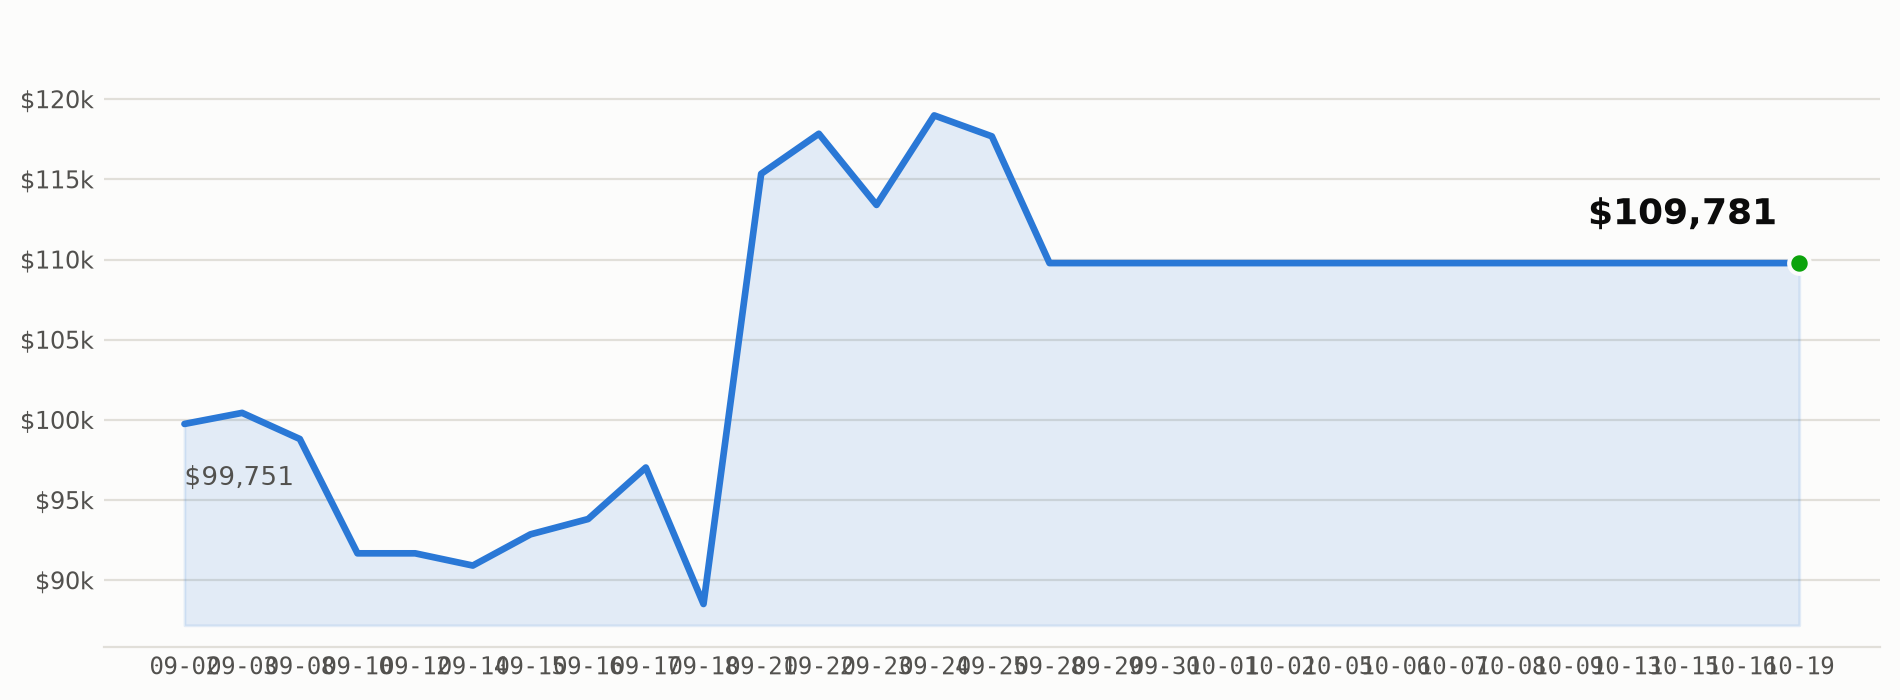
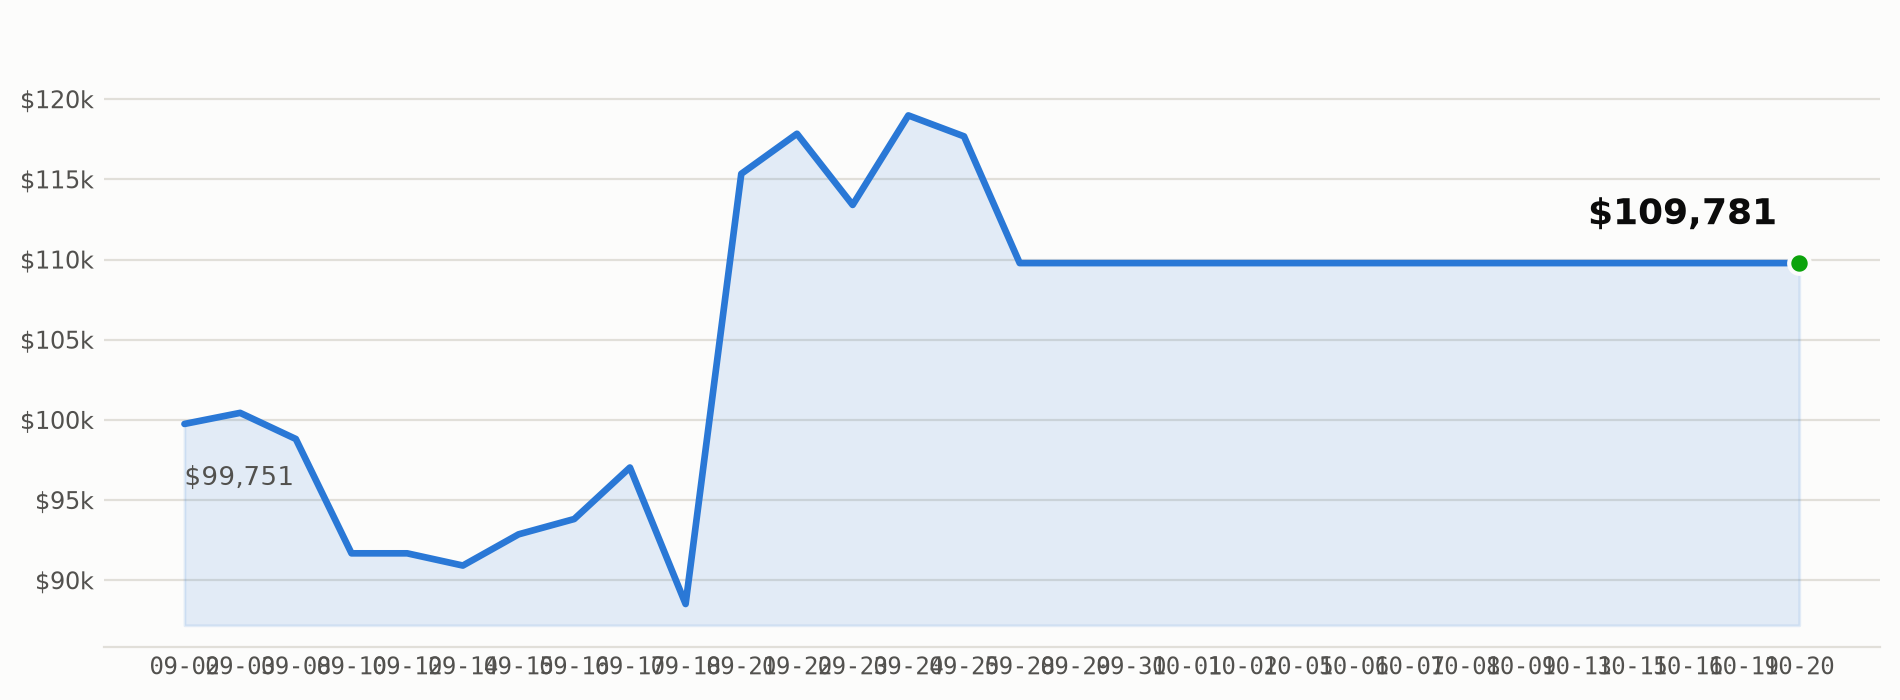
Daily dashboard update for 2026-10-20
Automated commit from scripts/daily_run.py after the market-close run.

diff --git a/README.md b/README.md
@@ -12,7 +12,7 @@ An autonomous AI trading agent for Alpaca's **Options Alpha** hackathon track.
 </p>
 
 <p align="center">
-  <img src="docs/equity_curve.png?v=2026-10-19-109781" alt="AlphaCa account equity over time, currently $109,781" width="800">
+  <img src="docs/equity_curve.png?v=2026-10-20-109781" alt="AlphaCa account equity over time, currently $109,781" width="800">
 </p>
 <!-- PNL_DASHBOARD_END -->
 
